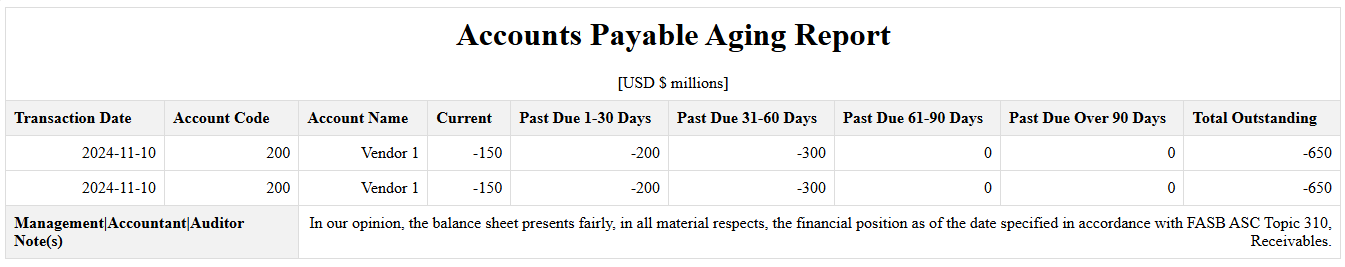
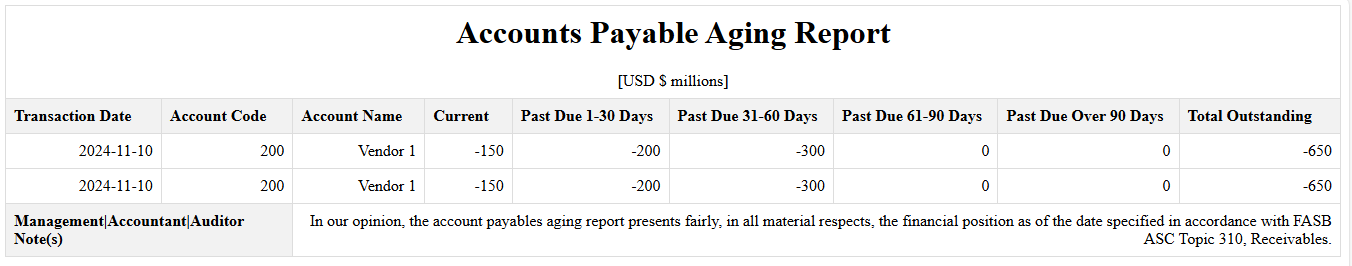
updated account-payables-aging

diff --git a/test/accountpayablesaging.test.js b/test/accountpayablesaging.test.js
@@ -11,7 +11,7 @@ const path = require('path');
 const delay = ms => new Promise(resolve => setTimeout(resolve, ms));
 
 describe("Create formatted Account Payables Aging Report", function(){
-    let report, vendorOne, vendorTwo, data, formattedData, xml;
+    let report, vendorOne, vendorTwo, data, formattedData, xml, html;
     let due15DaysAgo, due45DaysAgo, due75DaysAgo, due95DaysAgo, due135DaysAgo;
 
     before(async() => {
@@ -112,7 +112,7 @@ describe("Create formatted Account Payables Aging Report", function(){
     })
 
     it("should format data into array",async() => {
-        const notes = `In our opinion, the balance sheet presents fairly, in all material respects, the financial position as of the date specified in accordance with FASB ASC Topic 310, Receivables.`;
+        const notes = `In our opinion, the account payables aging report presents fairly, in all material respects, the financial position as of the date specified in accordance with FASB ASC Topic 310, Receivables.`;
 
         formattedData = await report.formatArray(data,notes);
         const expected = {
@@ -140,7 +140,7 @@ describe("Create formatted Account Payables Aging Report", function(){
                 txdate: '2024-11-10'
               }
             ],
-            notes: 'In our opinion, the balance sheet presents fairly, in all material respects, the financial position as of the date specified in accordance with FASB ASC Topic 310, Receivables.'
+            notes: 'In our opinion, the account payables aging report presents fairly, in all material respects, the financial position as of the date specified in accordance with FASB ASC Topic 310, Receivables.'
         };
         assert.deepStrictEqual(formattedData,expected);
     })
@@ -171,7 +171,7 @@ describe("Create formatted Account Payables Aging Report", function(){
         <total_outstanding>-150</total_outstanding>
         <txdate>2024-11-10</txdate>
     </lineItems>
-    <notes>In our opinion, the balance sheet presents fairly, in all material respects, the financial position as of the date specified in accordance with FASB ASC Topic 310, Receivables.</notes>
+    <notes>In our opinion, the account payables aging report presents fairly, in all material respects, the financial position as of the date specified in accordance with FASB ASC Topic 310, Receivables.</notes>
 </accountPayablesAging>`;
         assert.deepStrictEqual(xml,expected);
     })
